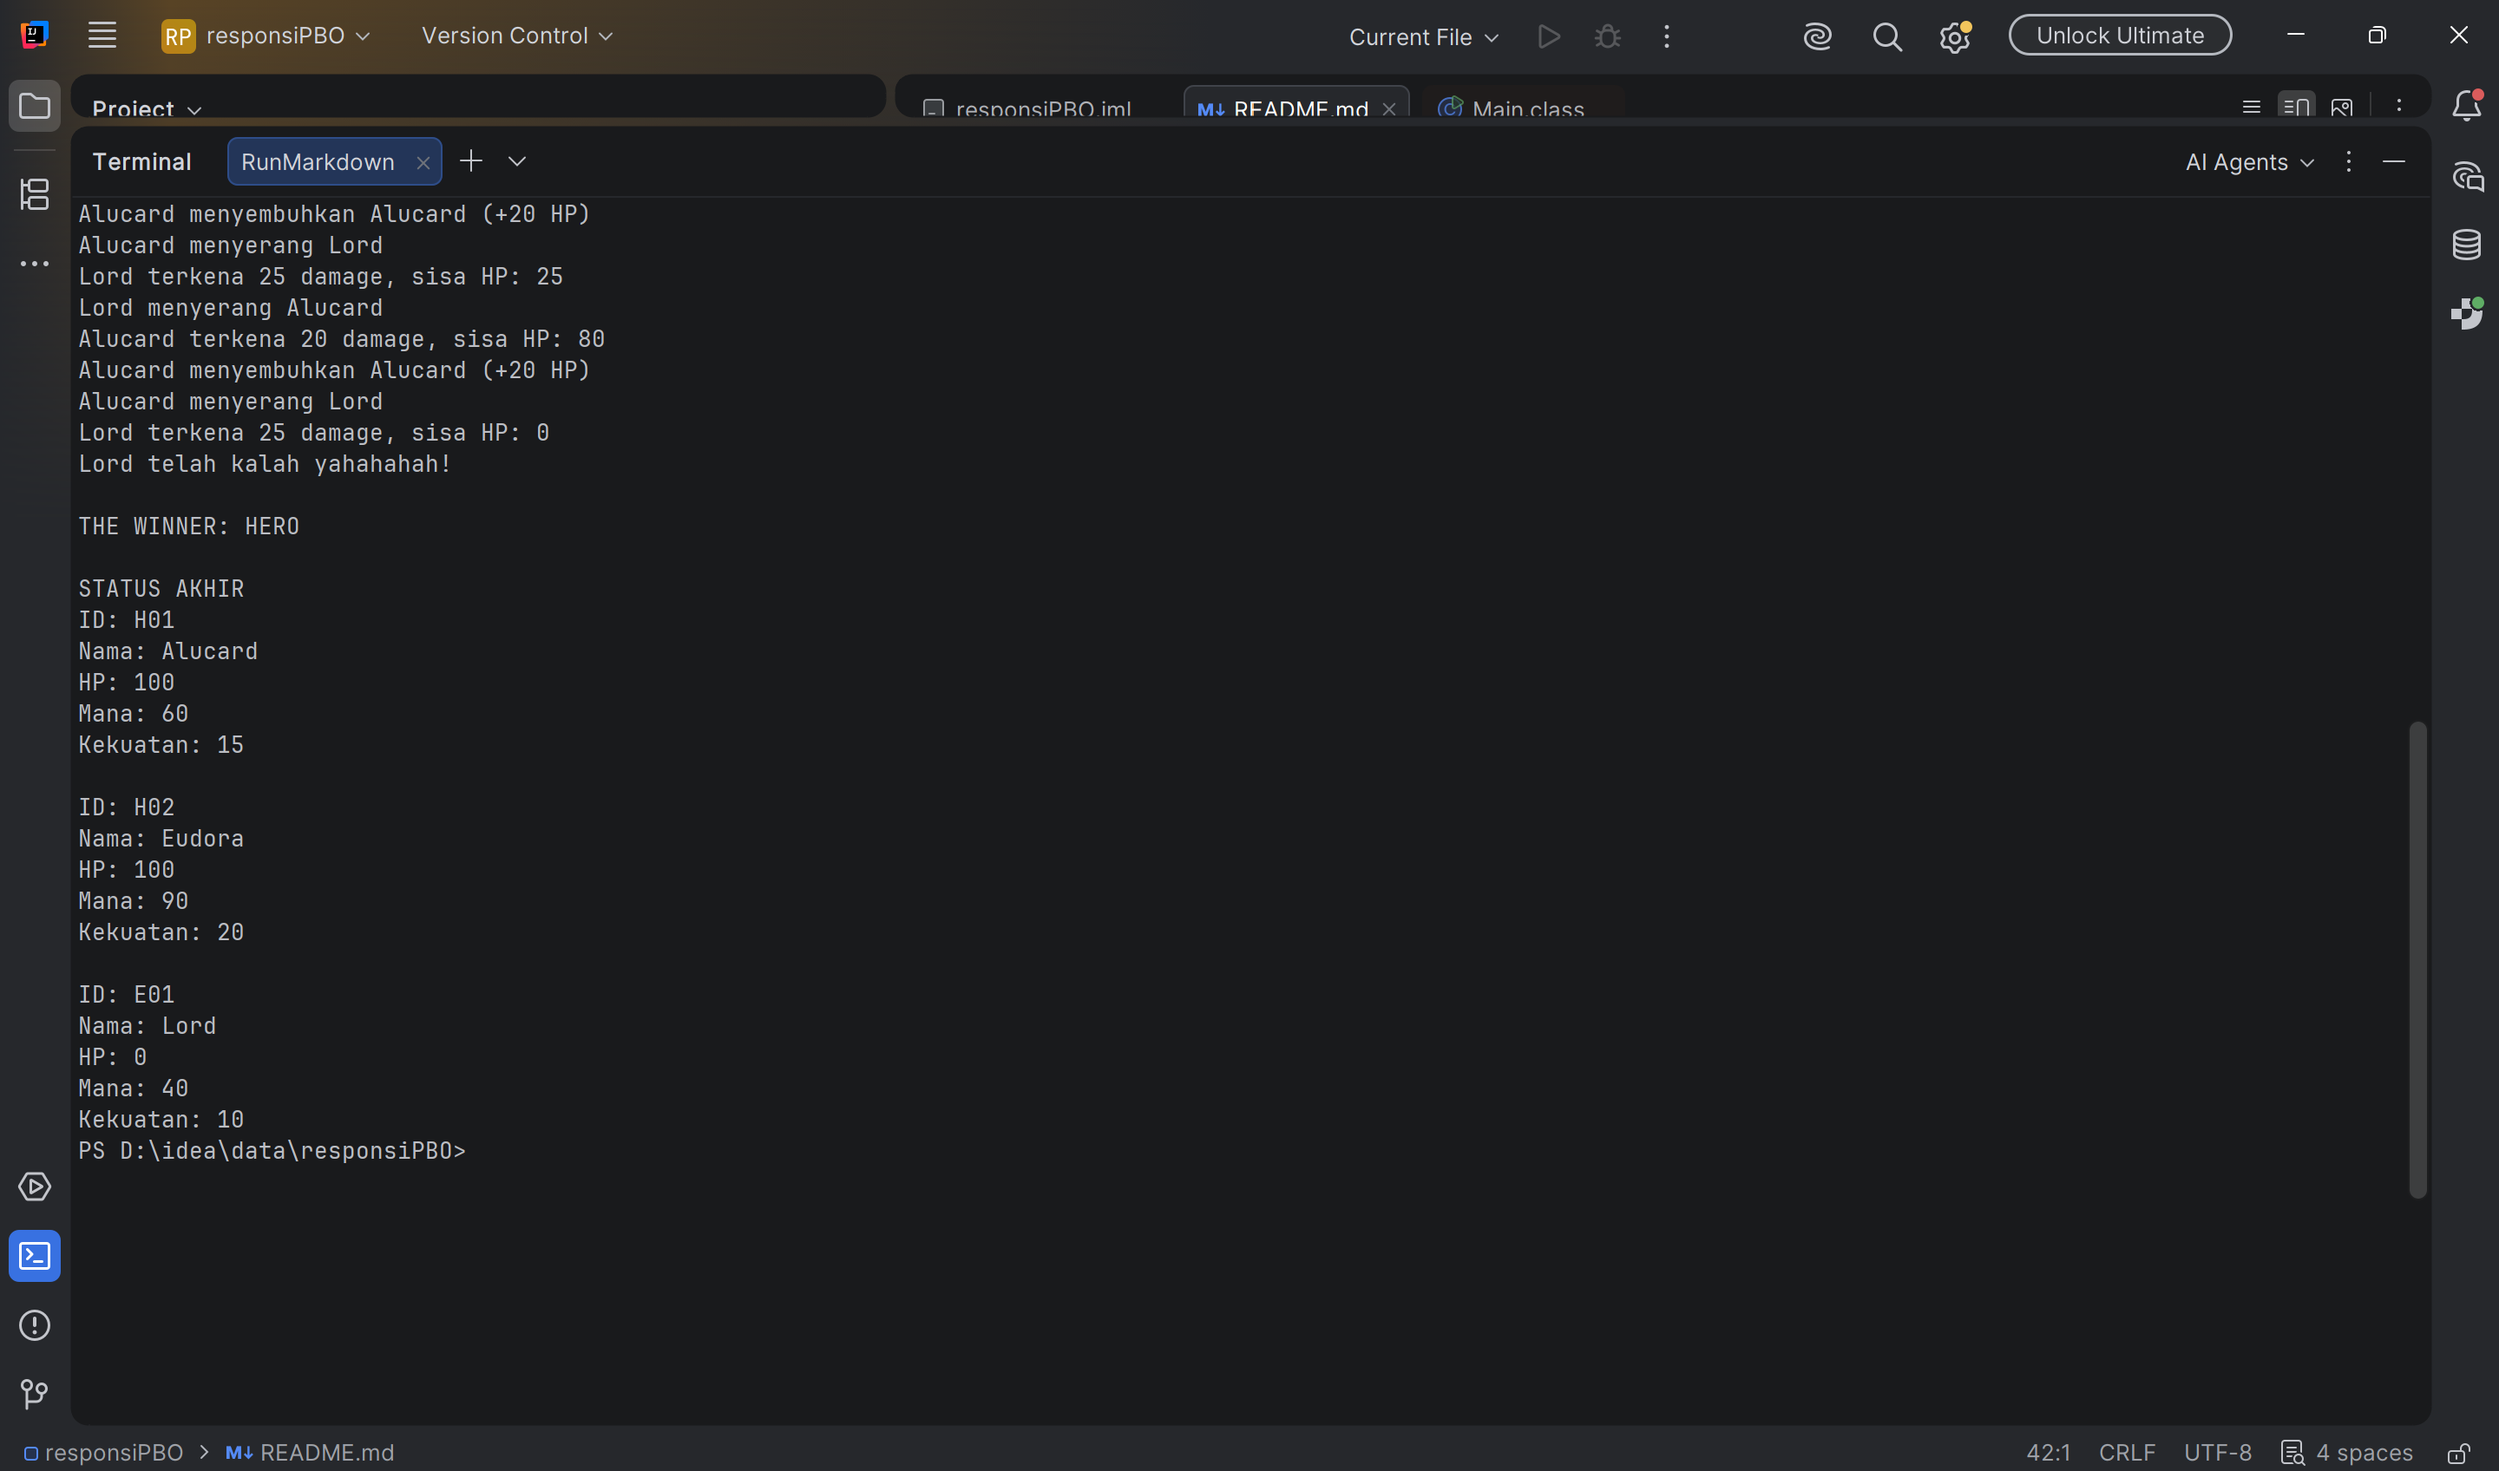
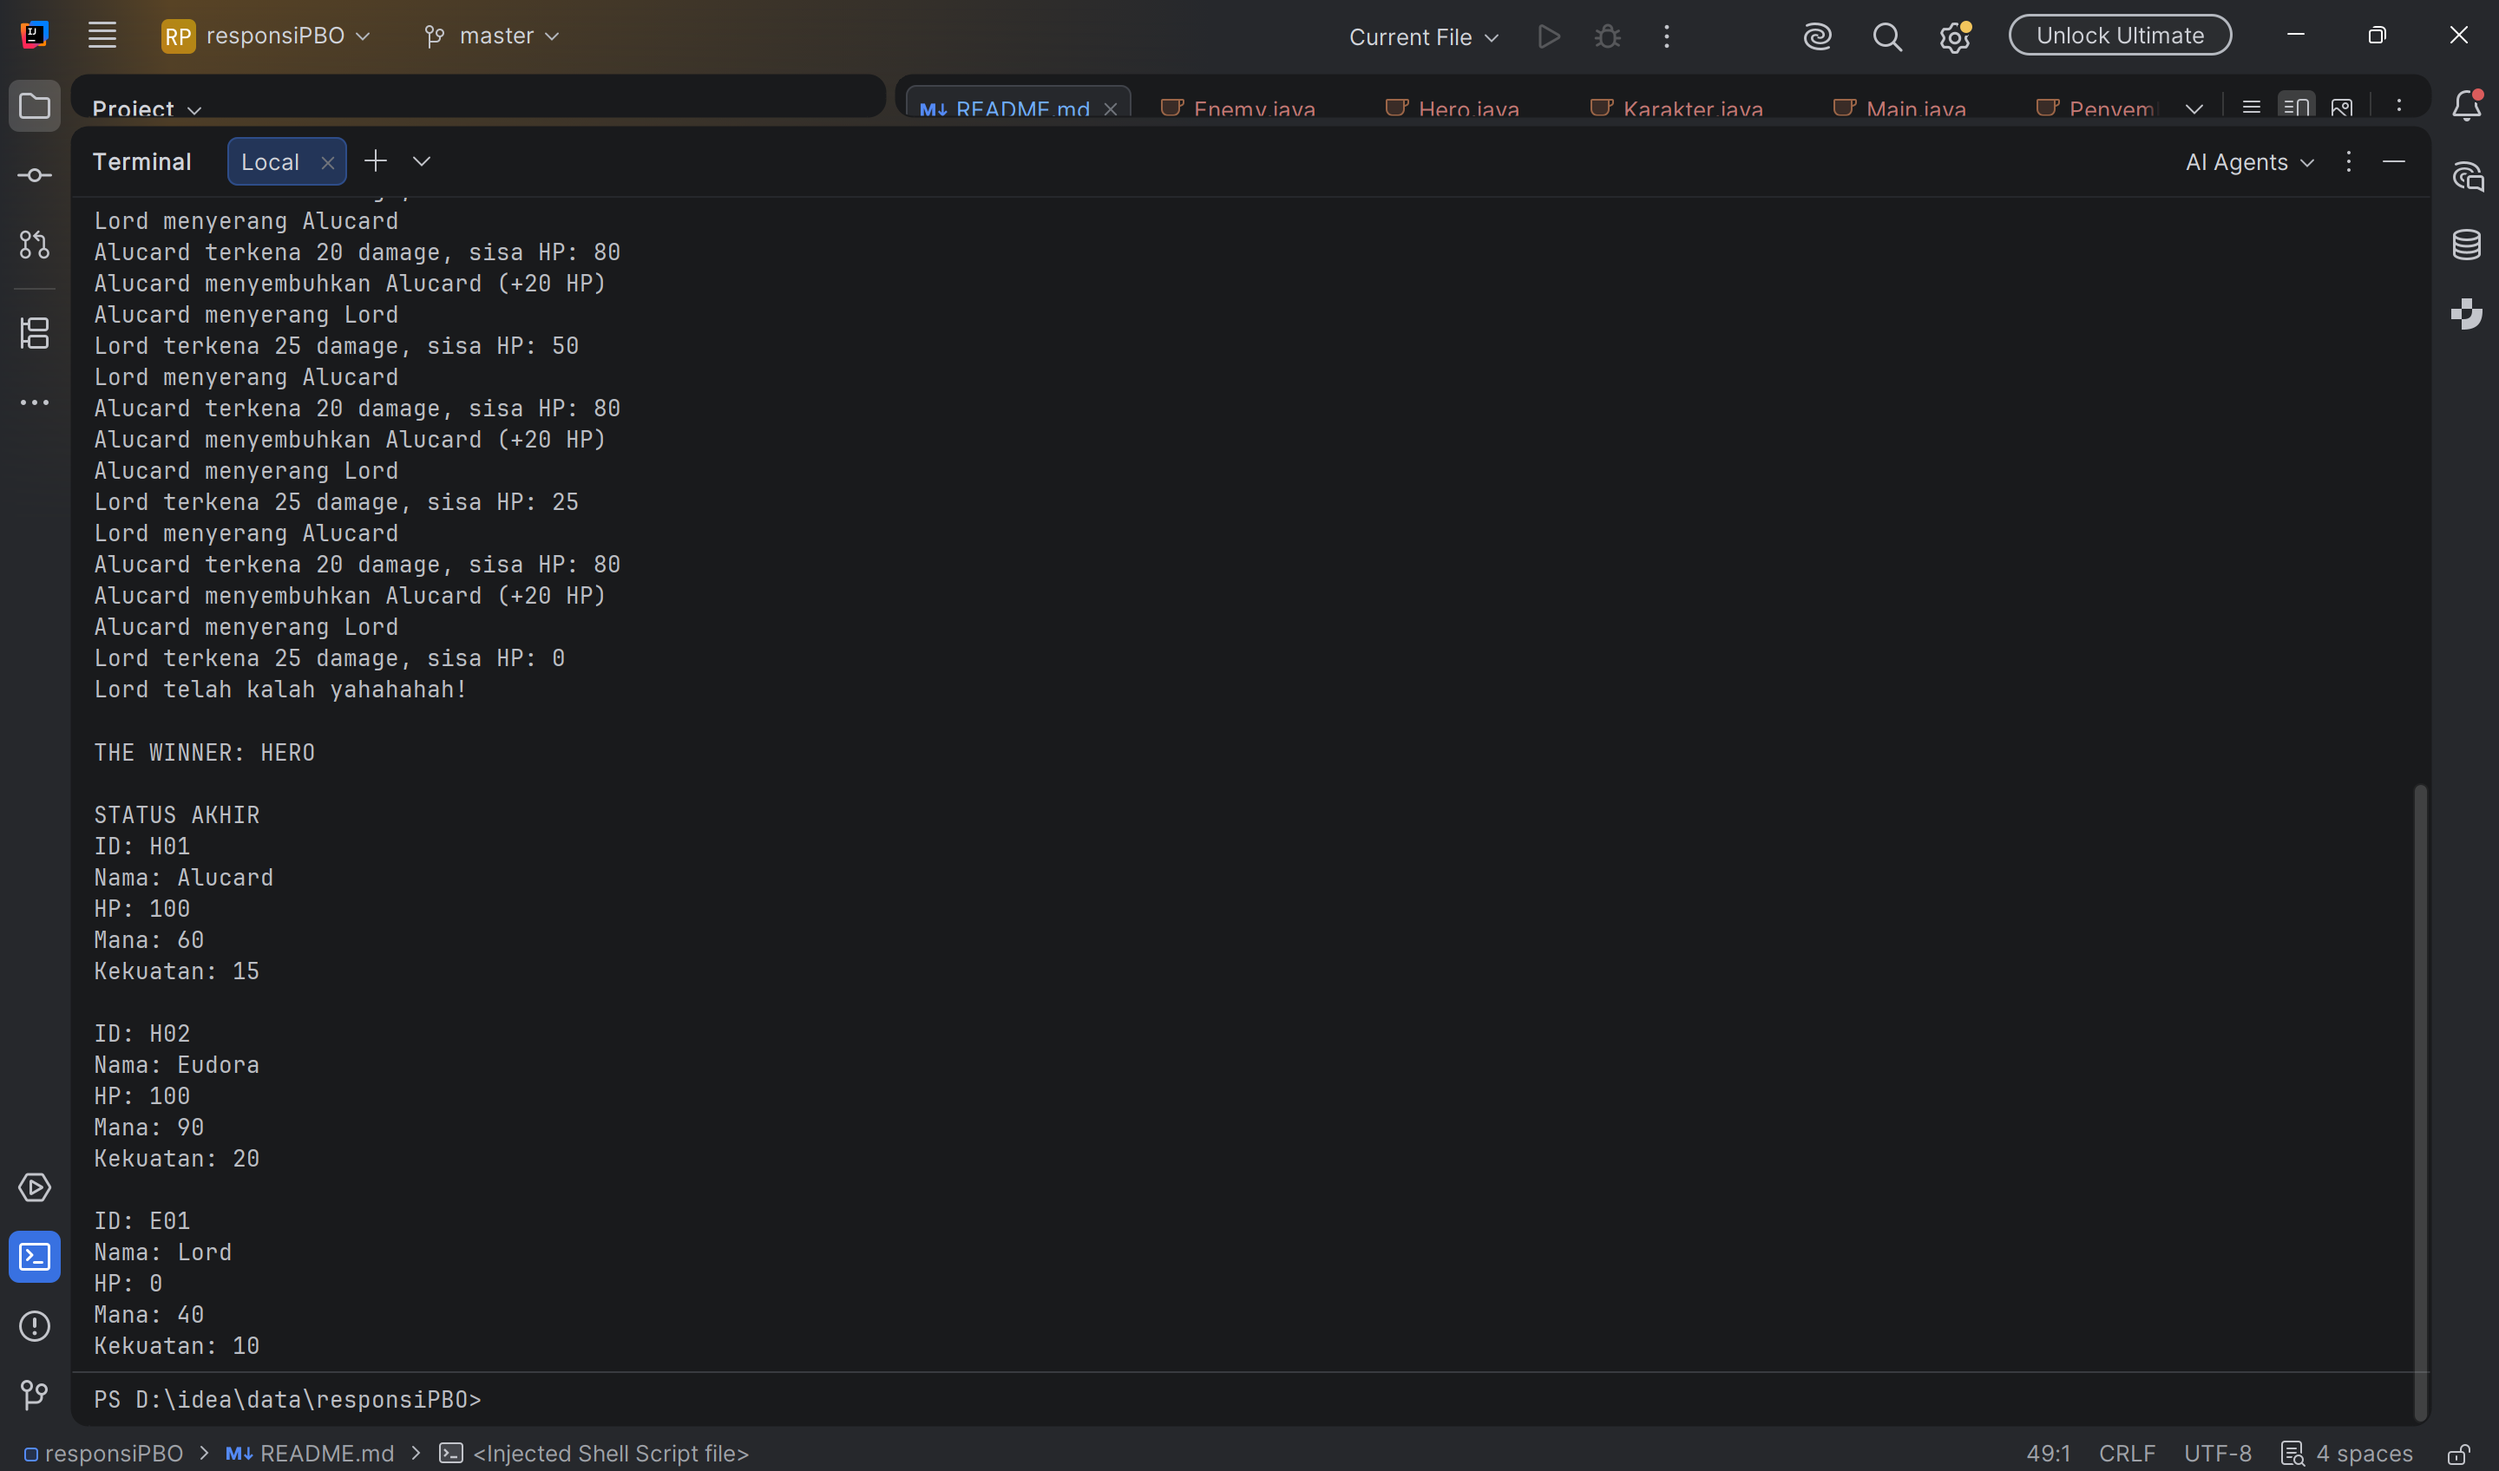
Update project structure

diff --git a/README.md b/README.md
@@ -1,4 +1,4 @@
-# RESPONS I AKHIR PRAKTIKUM PBO
+# RESPONSI AKHIR PRAKTIKUM PBO
 
 ## Deskripsi Program
 
@@ -16,29 +16,16 @@ Pertarungan berlangsung hingga salah satu karakter utama kalah, kemudian program
 ## 2. Struktur 
 Project ResponsiPBO terdiri dari beberapa folder dan file, yaitu:
 
-ResponsiPBO (folder utama)
-
-README.md
-
-screenshot-output.png
-
-src (folder source code)
-
-    responsi (package)
-
-        Karakter.java
-
-        Hero.java
-
-        Enemy.java
-
-        Penyerang.java
-
-        Penyembuh.java
-
-        Main.java
-
-out (folder hasil compile program)
+ResponsiPBO/
+- Karakter.java
+- Hero.java
+- Enemy.java
+- Penyerang.java
+- Penyembuh.java
+- Main.java
+- README.md
+- ssoutput(kedua).png
+- ssoutput(pertama).png
 
 ## 3. Petunjuk Compile dan Run
 
@@ -46,12 +33,13 @@ Buka terminal pada folder utama project, kemudian jalankan perintah berikut.
 
 **Compile:**
 ```bash
-javac -d out src/responsi/Karakter.java src/responsi/Penyerang.java src/responsi/Penyembuh.java src/responsi/Hero.java src/responsi/Enemy.java src/responsi/Main.java
+New-Item -ItemType Directory -Force out
+javac -d out Karakter.java Penyerang.java Penyembuh.java Hero.java Enemy.java Main.java
 ```
 
 **Run:**
 ```bash
-java -cp out responsi.Main
+java -cp out Main
 ```
 
 ## 4. Screenshot Luaran Program
